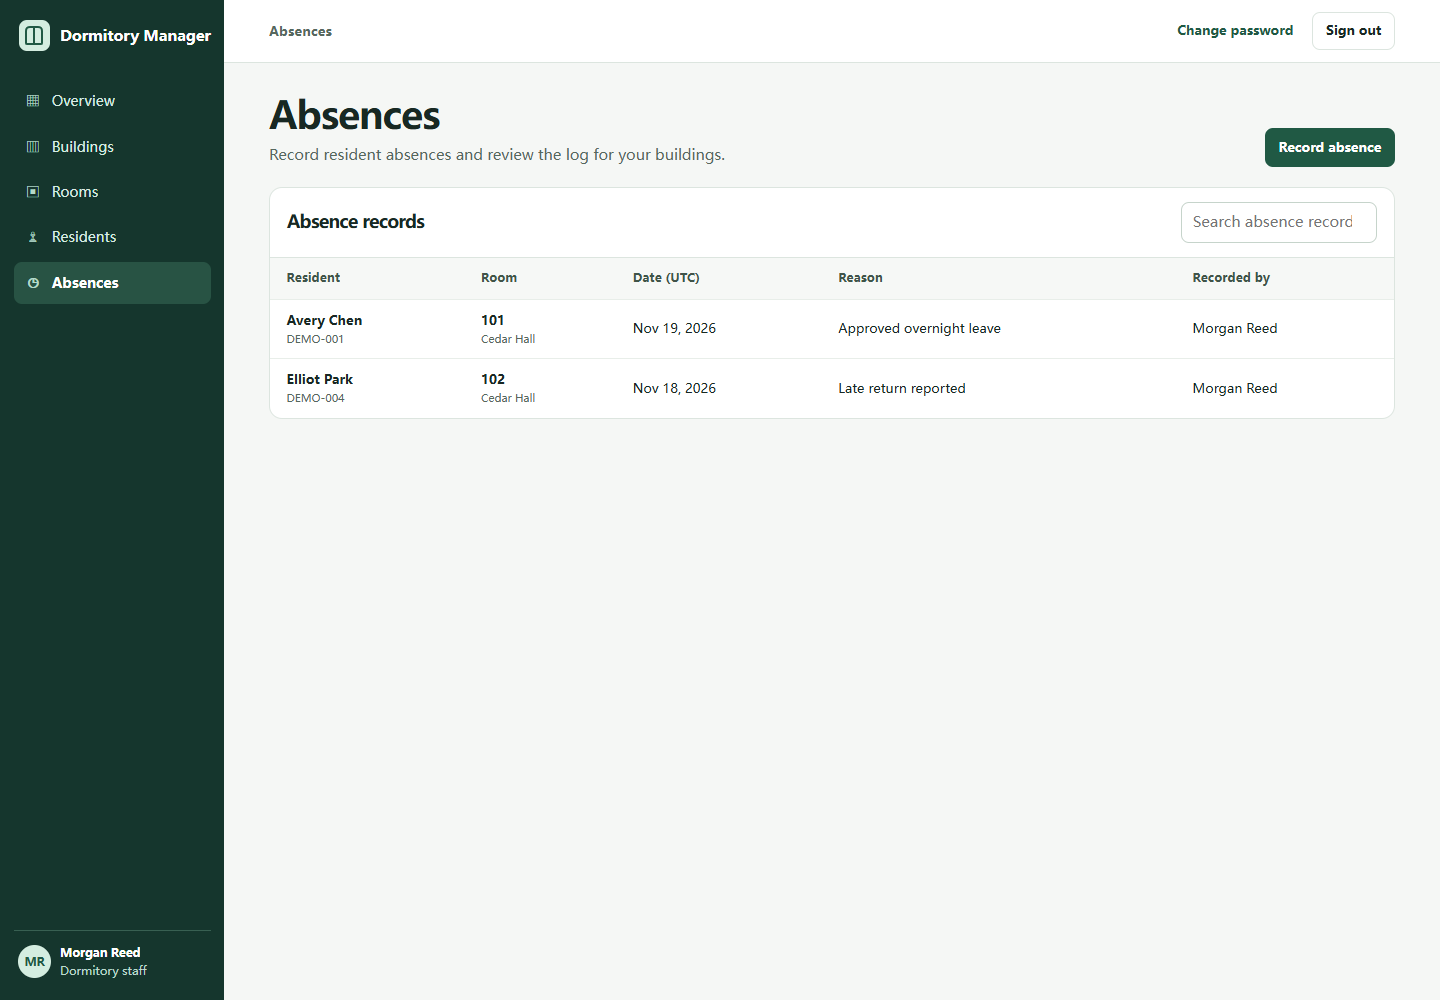
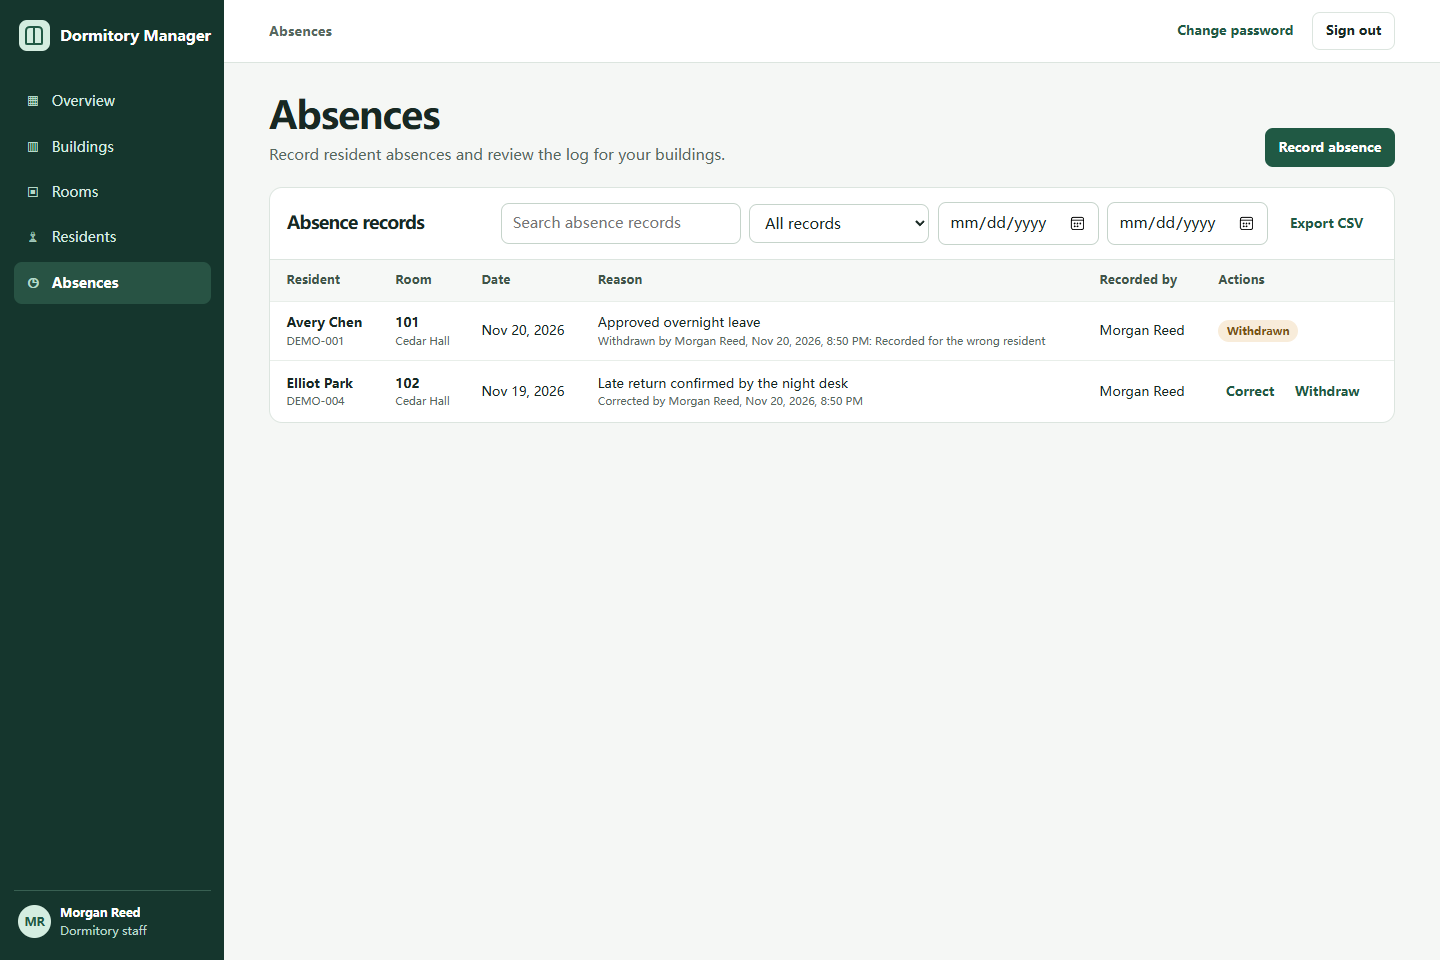
docs: capture the README screenshots with Playwright
npm run screenshots starts the packaged application and captures the
README images at 1440x960 from fictional demo records, so they can be
regenerated whenever the interface changes. The set now shows gender
and contact details, room allocation and absence corrections. A
room-allocation view replaces the room transfer dialog.

Table toolbars now fill the header and align right when they wrap, so
the Export CSV button no longer drops to the left on its own line.

diff --git a/frontend/screenshots/capture.spec.js b/frontend/screenshots/capture.spec.js
@@ -1,0 +1,68 @@
+import {expect, test} from "@playwright/test";
+import {fileURLToPath} from "node:url";
+
+// Writes the README screenshots to docs/media. Run with `npm run screenshots` after packaging.
+const media = name => fileURLToPath(new URL("../../docs/media/" + name, import.meta.url));
+
+async function signIn(page, account) {
+    await page.getByRole("button", {name: "Use " + account}).click();
+    await page.getByRole("button", {name: "Sign in", exact: true}).click();
+    await expect(page.getByRole("heading", {name: "Overview", exact: true})).toBeVisible();
+}
+
+async function signOut(page) {
+    await page.getByRole("button", {name: "Sign out"}).click();
+    await expect(page.getByRole("heading", {name: "Sign in", exact: true})).toBeVisible();
+}
+
+async function open(page, name) {
+    await page.getByRole("navigation", {name: "Workspace"}).getByRole("link", {name, exact: true}).click();
+    await expect(page.getByRole("heading", {level: 1, name, exact: true})).toBeVisible();
+    await expect(page.locator("[aria-busy]")).toHaveCount(0);
+}
+
+async function send(page, method, path, data) {
+    const session = await (await page.request.get("/api/session")).json();
+    const response = await page.request.fetch("/api" + path, {method, data, headers: {[session.csrfHeader]: session.csrfToken}});
+    expect(response.ok(), method + " " + path).toBeTruthy();
+}
+
+// Every capture shows a settled page: nothing loading and no toast.
+async function capture(page, name) {
+    await expect(page.locator("[aria-busy]")).toHaveCount(0);
+    await expect(page.locator("#toast")).toBeHidden();
+    await page.screenshot({path: media(name)});
+}
+
+async function absence(page, reason) {
+    const absences = await (await page.request.get("/api/absences?q=" + encodeURIComponent(reason))).json();
+    return absences.items[0];
+}
+
+test("README screenshots", async ({page}) => {
+    await page.goto("/");
+    await expect(page.getByRole("button", {name: "Use administrator"})).toBeVisible();
+    await capture(page, "sign-in.png");
+
+    await signIn(page, "administrator");
+    await expect(page.locator(".occupancy-item")).toHaveCount(3);
+    await capture(page, "overview.png");
+
+    await open(page, "Students");
+    await capture(page, "student-housing.png");
+
+    await open(page, "Rooms");
+    await capture(page, "room-allocation.png");
+
+    await signOut(page);
+    await signIn(page, "staff");
+    const corrected = await absence(page, "Late return reported");
+    await send(page, "PUT", "/absences/" + corrected.id,
+        {absenceDate: corrected.absenceDate, reason: "Late return confirmed by the night desk"});
+    const withdrawn = await absence(page, "Approved overnight leave");
+    await send(page, "POST", "/absences/" + withdrawn.id + "/withdraw", {reason: "Recorded for the wrong resident"});
+    await open(page, "Absences");
+    await page.getByRole("combobox", {name: "Filter by record status"}).selectOption({label: "All records"});
+    await expect(page.getByText("Recorded for the wrong resident")).toBeVisible();
+    await capture(page, "staff-absences.png");
+});

diff --git a/frontend/playwright.screenshots.config.js b/frontend/playwright.screenshots.config.js
@@ -1,0 +1,21 @@
+import {defineConfig} from "@playwright/test";
+import {demoServer} from "./application.js";
+
+// Captures the README screenshots from the packaged application with its fictional demo records.
+const {baseURL, webServer} = demoServer(18081, "Asia/Shanghai");
+
+export default defineConfig({
+    testDir: "./screenshots",
+    reporter: "list",
+    workers: 1,
+    use: {
+        baseURL,
+        channel: process.env.DORM_TEST_BROWSER_CHANNEL || undefined,
+        viewport: {width: 1440, height: 960},
+        colorScheme: "light",
+        locale: "en-US",
+        // Date inputs follow the browser's interface language, so pin it as well.
+        launchOptions: {args: ["--lang=en-US"]}
+    },
+    webServer
+});

diff --git a/frontend/src/styles.css b/frontend/src/styles.css
@@ -154,7 +154,7 @@ td { min-width: 4rem; overflow-wrap: anywhere; }
 td .actions { min-width: 8rem; }
 td small { color: var(--muted); display: block; }
 td .button { padding-inline: .45rem; }
-.table-controls { display: flex; flex-wrap: wrap; align-items: center; gap: .55rem; }
+.table-controls { display: flex; flex: 1 1 auto; flex-wrap: wrap; align-items: center; justify-content: flex-end; gap: .55rem; }
 .table-controls input { width: min(100%, 16rem); }
 .table-controls select { width: auto; max-width: 100%; }
 .table-controls input[type=date] { width: auto; }
